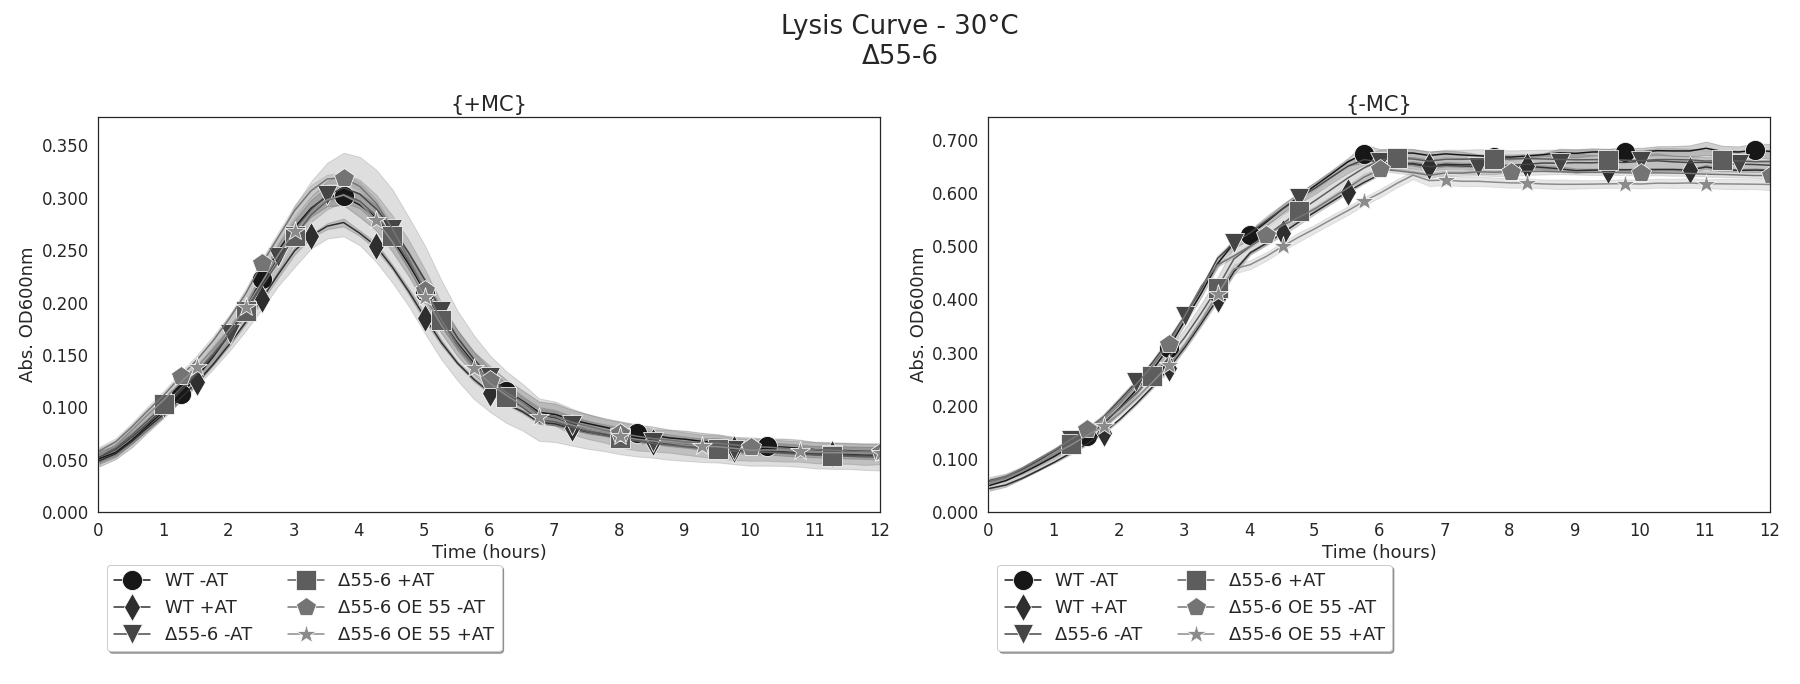
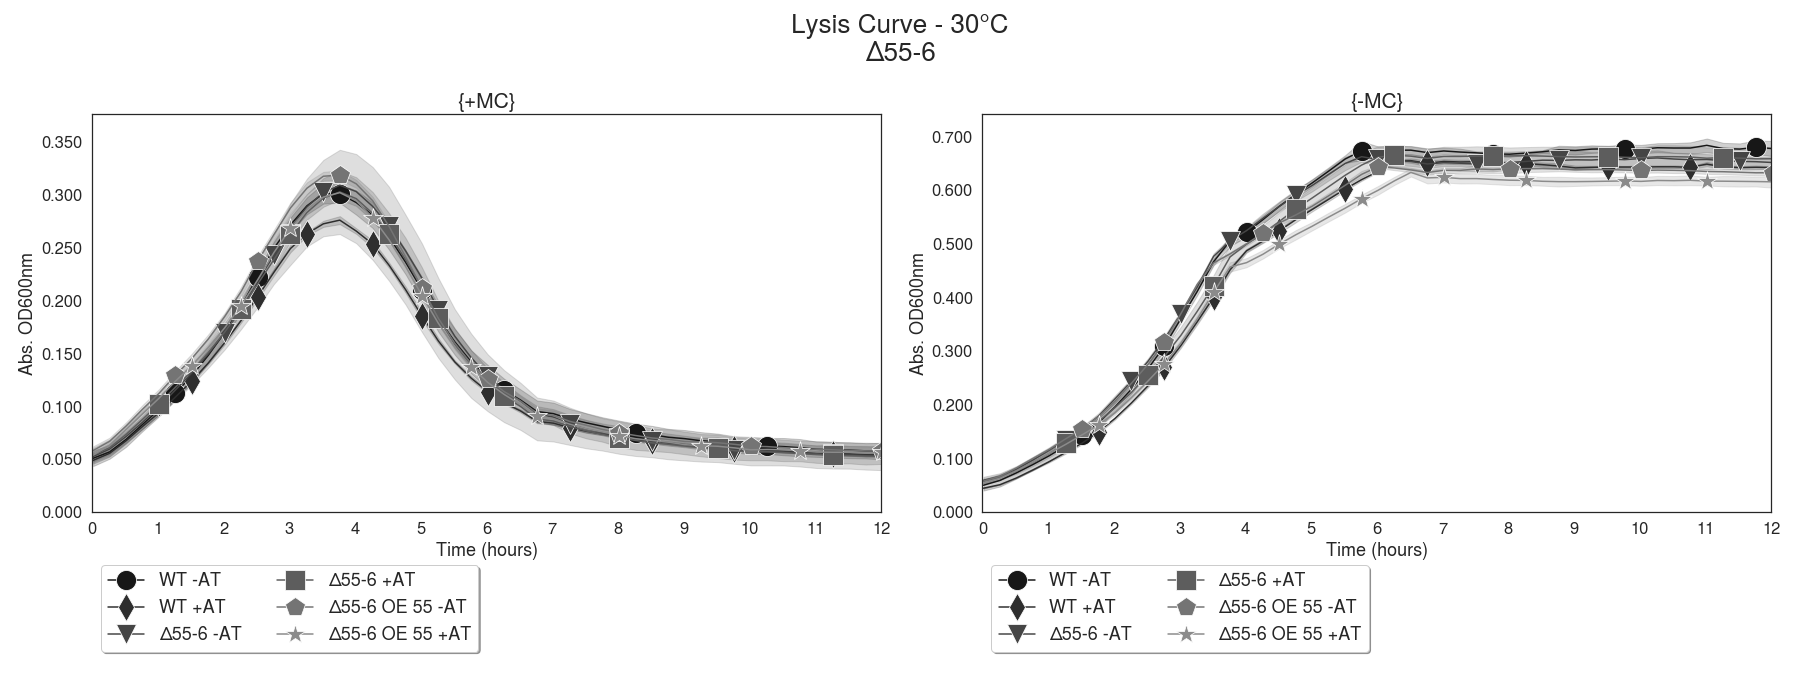
OE 55 touch-ups

diff --git a/Lysis Curve/OE 55/Lysis_Curve_30.py b/Lysis Curve/OE 55/Lysis_Curve_30.py
@@ -17,7 +17,6 @@ output_folder = 'lysis_curve_1_repeats'
 df = analyse_file(
     opticalDense_path = f'./csv/{csv_filename}.csv',
     triplicates_path  = f'./groups/{groups_filename}.csv',
-    # blanks            = ['A3'] # for deg30-rept1
     blanks            = ['A3', 'A9'] # for all else
 )
 figs = []
@@ -30,6 +29,7 @@ figs += [fig]
 ## WT ##
 
 wt_cols = [ c for c in df.columns if 'WT' in c and 'OE' not in c ]
+wt_cols_minus_at = [ c for c in df.columns if 'WT' in c and 'OE' not in c and '-AT' in c ]
 wt_oe_cols = [ c for c in df.columns if 'WT' in c and 'OE' in c ]
 
 ## Cured  ##
@@ -53,6 +53,13 @@ fig,axs = gen_pair_graphs(df, cols, title, xticks=range(time_in_oven+1))
 figs += [fig]
 ## Δ55-6 ##
 
+## Δ1555-56 ##
+title = f'Lysis Curve - {deg}°C\nΔ1555-56'
+cols = wt_cols_minus_at + [ c for c in df.columns if '55-6' in c and 'OE' not in c and '-AT' in c ]
+fig,axs = gen_pair_graphs(df, cols, title, xticks=range(time_in_oven+1))
+figs += [fig]
+## Δ1555-56 ##
+
 
 # save
 for i,fig in enumerate(figs):
@@ -61,4 +68,4 @@ for i,fig in enumerate(figs):
     fig.savefig(f'{path}/{i}.png')
 
 # show
-# plt.show()
+# plt.show() 
